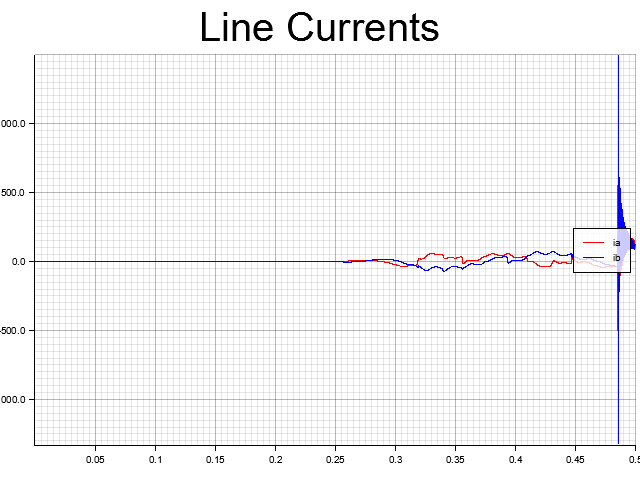
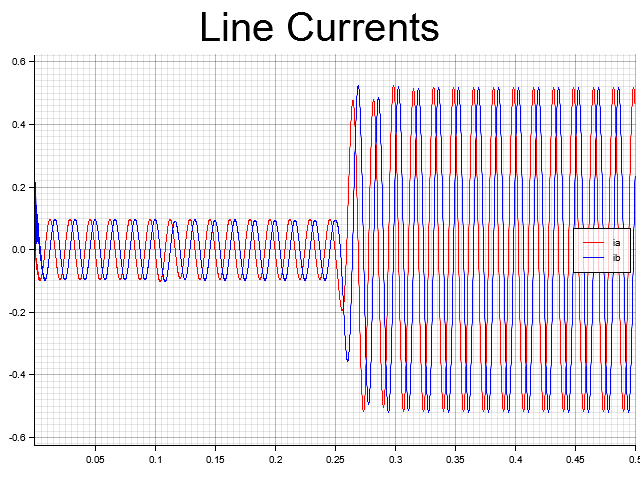
Tested dVOC DLVC with slower DLVC controller

Changed region(s): [[0.0, 0.0938, 1.0, 0.9375]]

diff --git a/src/bin/dvoc_lcl_dlvc_sim.rs b/src/bin/dvoc_lcl_dlvc_sim.rs
@@ -25,14 +25,7 @@ fn main() -> Result<(), Box<dyn std::error::Error>> {
     let f_nom: f32 = 60.;
     let w_nom: f32 = f_nom * 2.*PI;
     let s_rated: f32 = 1000.;
-    let fs: f32 = 10e3_f32; // Hz
-    let dt: f32 = 1. / fs;  // s
-    let xi: f32 = 15.;
-    let c: f32 = 0.2679;
-    let gamma: f32 = 1.; 
-
-    let i_base = 3. * v_nom / s_rated;
-    let z_base = 3. * v_nom * v_nom / s_rated;
+    let dt: f32 = 1.0e-4_f32;
 
     let rf = 0.4;  // filter-side resistance
     let lf = 1.5e-3;  // filter-side inductance
@@ -40,6 +33,18 @@ fn main() -> Result<(), Box<dyn std::error::Error>> {
     let rc = 0.05;  // filter capacitor parasitic resistance
     let rg = 0.4;  // grid-side resistance
     let lg = 1.5e-3;  // grid-side inductance
+
+    let i_base = 3. * v_nom / s_rated;
+    let z_base = 3. * v_nom * v_nom / s_rated;
+
+    // dVOC control parameters
+    let xi: f32 = 15.;
+    let c: f32 = 0.75; // 0.2679;
+
+    // presynchronization parameters
+    let gamma: f32 = 1.; 
+
+    // double-loop voltage controller paramerters
     //let rv = 0;  // virtual impedance
     //let zf = libm::sqrtf(rf*rf+(lf*w_nom)*(lf*w_nom));  // filter nominal inductance
 

diff --git a/src/bin/dvoc_rl_sim.rs b/src/bin/dvoc_rl_sim.rs
@@ -20,6 +20,7 @@ fn main() -> Result<(), Box<dyn std::error::Error>> {
     /*
     DEFINE SYSTEM PARAMETERS & CONSTRUCT OBJECTS
     */
+    // system parameters
     let n_phases = 3.;
     let v_nom: f32 = 80.;
     let f_nom: f32 = 60.;
@@ -27,9 +28,6 @@ fn main() -> Result<(), Box<dyn std::error::Error>> {
     let s_rated: f32 = 1000.;
     let fs: f32 = 10e3_f32; // Hz
     let dt: f32 = 1. / fs;  // s
-    let xi: f32 = 15.;
-    let c: f32 = 0.2679;
-    let gamma: f32 = 1.; 
 
     let rf = 0.8;  // filter-side resistance
     let lf = 1.5e-3;  // filter-side inductance
@@ -37,6 +35,14 @@ fn main() -> Result<(), Box<dyn std::error::Error>> {
     let i_base = 3. * v_nom / s_rated;
     let z_base = 3. * v_nom * v_nom / s_rated;
 
+    // dVOC control parameters
+    let xi: f32 = 15.;
+    let c: f32 = 0.2679;
+
+    // presynchronization parameters
+    let gamma: f32 = 1.; 
+
+    // construct system
     let mut inv = build_dvoc_controller(v_nom, w_nom, xi, c, n_phases);
     inv.x[(1)] = 0.005;  // Initialize inverter angle to be off from the grid to test presync
     inv.x[(0)] = 1.1;  // Initialize inverter voltage to be off from v_nom to test presync

diff --git a/src/bin/dvoc_lcl_sim.rs b/src/bin/dvoc_lcl_sim.rs
@@ -26,9 +26,6 @@ fn main() -> Result<(), Box<dyn std::error::Error>> {
     let w_nom: f32 = f_nom * 2.*PI;
     let s_rated: f32 = 1000.;
     let dt: f32 = 1.0e-4_f32;
-    let xi: f32 = 15.;
-    let c: f32 = 0.2679;
-    let gamma: f32 = 1.; 
 
     let rf = 0.4;  // filter-side resistance
     let lf = 1.5e-3;  // filter-side inductance
@@ -40,6 +37,14 @@ fn main() -> Result<(), Box<dyn std::error::Error>> {
     let i_base = 3. * v_nom / s_rated;
     let z_base = 3. * v_nom * v_nom / s_rated;
 
+    // dVOC control parameters
+    let xi: f32 = 15.;
+    let c: f32 = 0.2679;
+
+    // presynchronization parameters
+    let gamma: f32 = 1.; 
+
+    // construct system
     let mut inv = build_dvoc_controller(v_nom, w_nom, xi, c, n_phases);
     inv.x[(1)] = 0.;//0.003;  // Initialize inverter angle to be off from the grid to test presync
     inv.x[(0)] = 1.;//1.1;  // Initialize inverter voltage to be off from v_nom to test presync
